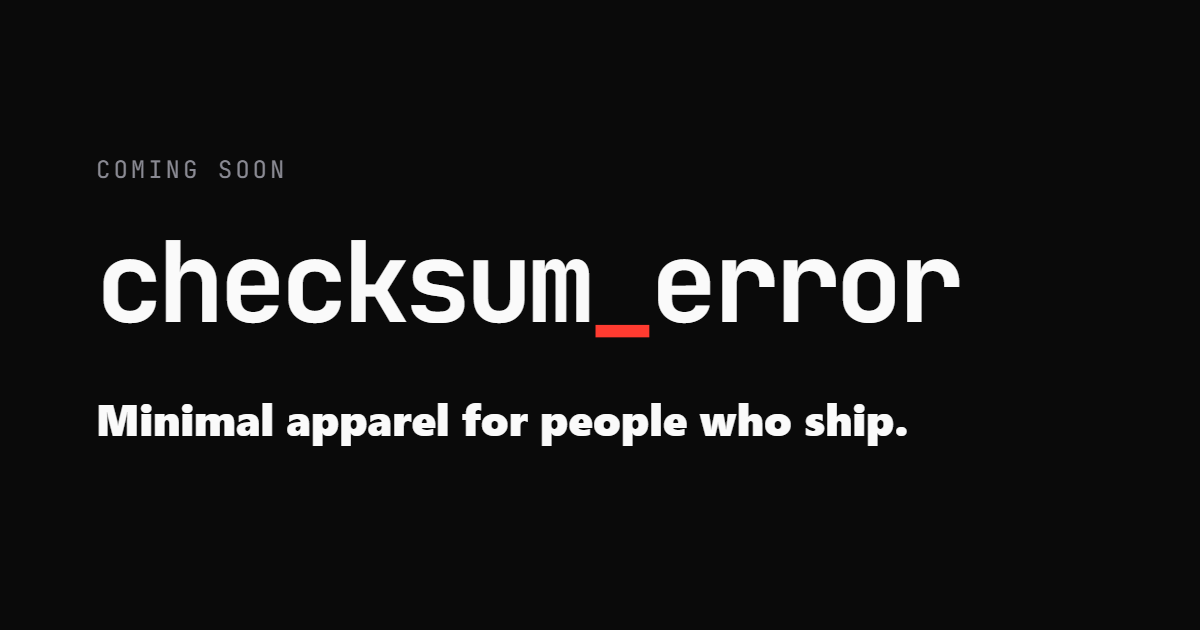
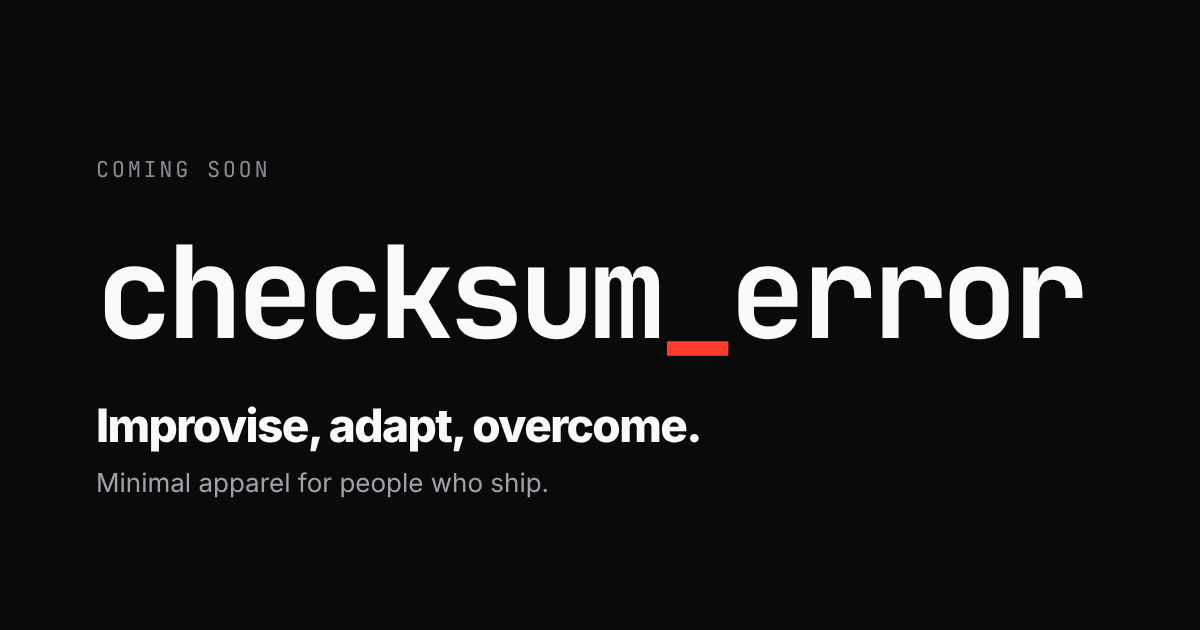
Make 'Improvise, adapt, overcome.' the site strap line
The hero headline and social preview now carry the brand motto;
'Minimal apparel for people who ship.' moves to the supporting line.

Claude-Session: https://claude.ai/code/session_01EQPhDNWq8TqBkeF7sktaTE

diff --git a/index.html b/index.html
@@ -4,7 +4,7 @@
   <meta charset="utf-8">
   <meta name="viewport" content="width=device-width, initial-scale=1">
   <title>Checksum Error | Developer apparel coming soon</title>
-  <meta name="description" content="Minimal apparel for people who ship. Preview five typographic tees and hoodies from Checksum Error. Coming soon.">
+  <meta name="description" content="Improvise, adapt, overcome. Minimal apparel for people who ship. Preview five typographic tees and hoodies from Checksum Error. Coming soon.">
   <meta name="theme-color" content="#0A0A0A">
   <meta name="color-scheme" content="dark">
   <link rel="canonical" href="https://checksumerror.io/">
@@ -16,15 +16,15 @@
   <meta property="og:type" content="website">
   <meta property="og:site_name" content="Checksum Error">
   <meta property="og:title" content="Checksum Error | Developer apparel coming soon">
-  <meta property="og:description" content="Minimal apparel for people who ship. Preview five typographic tees and hoodies.">
+  <meta property="og:description" content="Improvise, adapt, overcome. Minimal apparel for people who ship. Preview five typographic tees and hoodies.">
   <meta property="og:url" content="https://checksumerror.io/">
   <meta property="og:image" content="https://checksumerror.io/og.png">
   <meta property="og:image:type" content="image/png">
   <meta property="og:image:width" content="1200">
   <meta property="og:image:height" content="630">
-  <meta property="og:image:alt" content="checksum_error with a red underscore on a near-black background. Minimal apparel for people who ship. Coming soon.">
+  <meta property="og:image:alt" content="checksum_error with a red underscore on a near-black background. Improvise, adapt, overcome. Coming soon.">
   <meta name="twitter:card" content="summary_large_image">
-  <meta name="twitter:image:alt" content="checksum_error with a red underscore on a near-black background. Minimal apparel for people who ship. Coming soon.">
+  <meta name="twitter:image:alt" content="checksum_error with a red underscore on a near-black background. Improvise, adapt, overcome. Coming soon.">
 </head>
 <body>
   <a class="skip-link" href="#main">Skip to content</a>
@@ -44,7 +44,8 @@
       <div class="wrap">
         <p class="eyebrow">Coming soon</p>
         <p class="wordmark" aria-label="Checksum Error">checksum<span class="signal">_</span><wbr>error</p>
-        <h1 id="pitch">Minimal apparel for people who ship.</h1>
+        <h1 id="pitch">Improvise, adapt, overcome.</h1>
+        <p class="lead">Minimal apparel for people who ship.</p>
       </div>
     </section>
 
